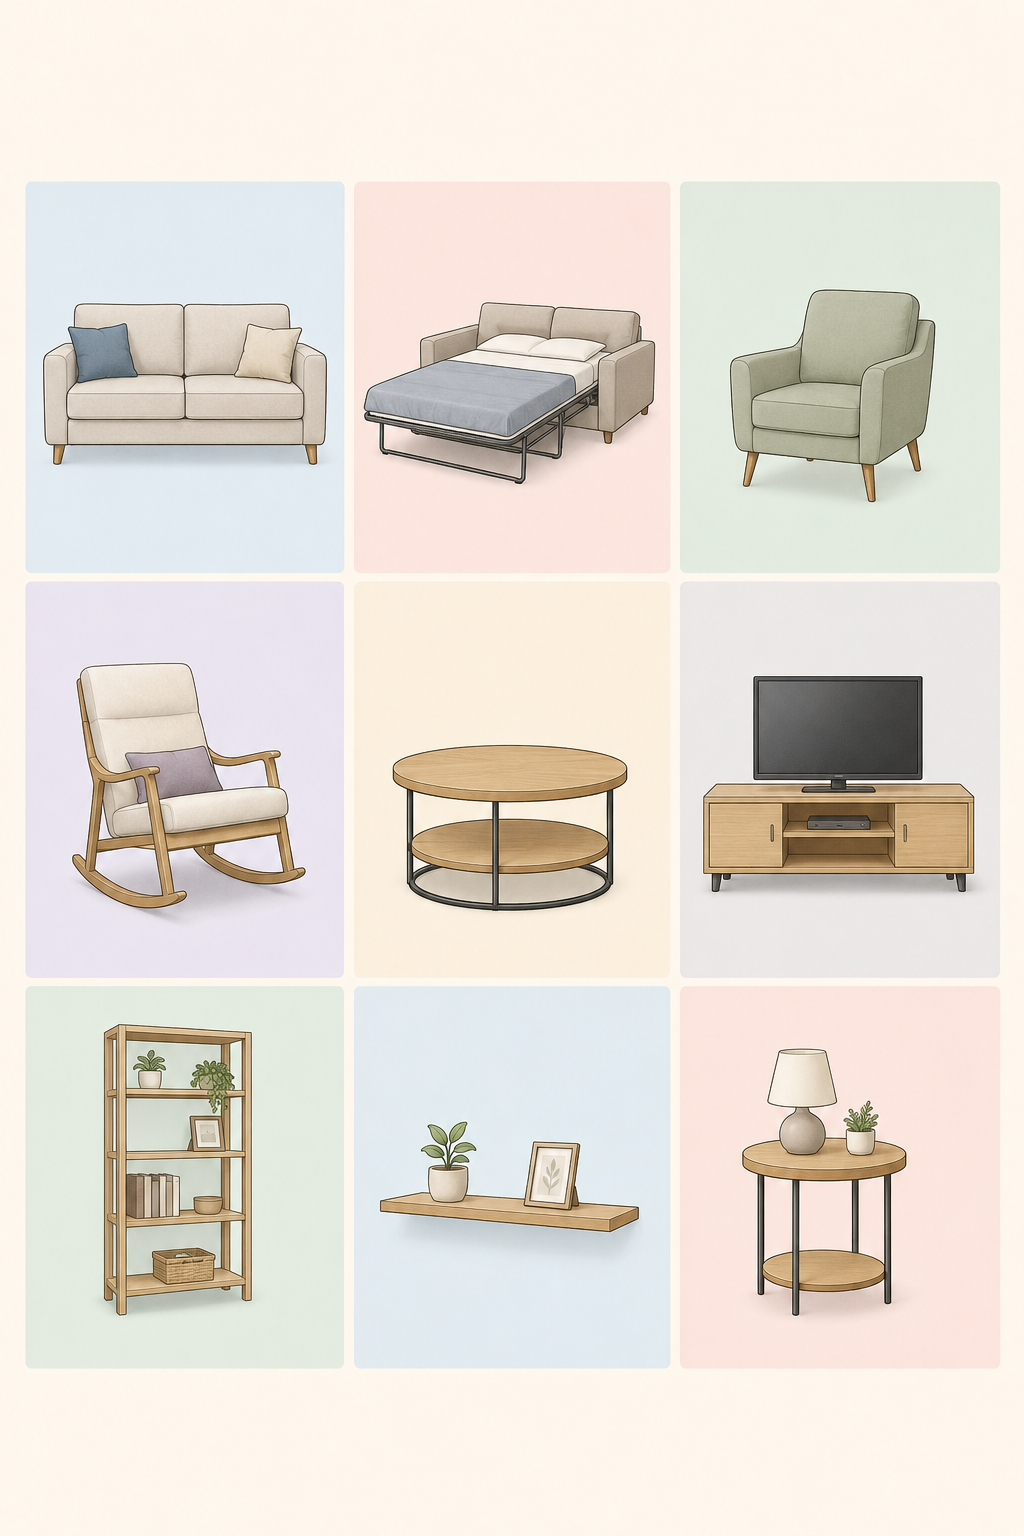
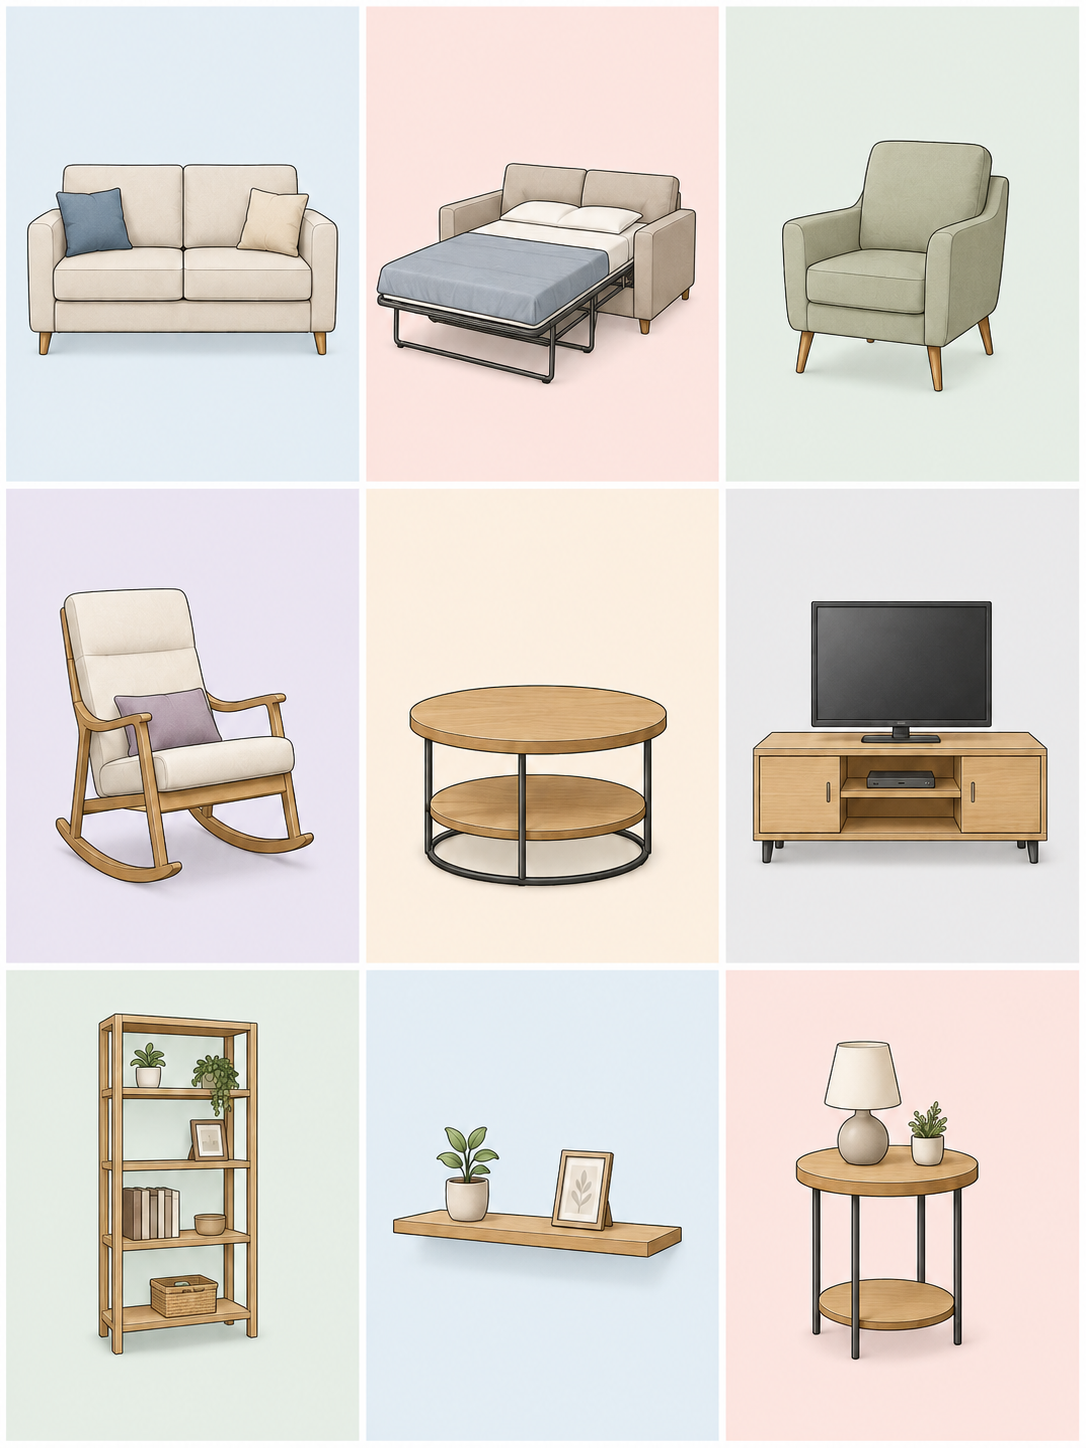
Aktualisiere Salon-Rasterbilder

diff --git a/bilder-daten.js b/bilder-daten.js
@@ -743,15 +743,15 @@ window.APP_FOLDERS = {
         title: "El salón – Bild 3",
         file: "salon3.png",
         hotspots: [
-          { wort: { es: "el sofá", de: "das Sofa", en: "the sofa", ru: "диван" }, clickX: 18.0, clickY: 24.5, labelX: 18.0, labelY: 10.8, areaW: 31.2, areaH: 25.5 },
-          { wort: { es: "el sofá cama", de: "das Schlafsofa", en: "the sofa bed", ru: "диван-кровать" }, clickX: 50.0, clickY: 24.5, labelX: 50.0, labelY: 10.8, areaW: 31.0, areaH: 25.5 },
-          { wort: { es: "el sillón", de: "der Sessel", en: "the armchair", ru: "кресло" }, clickX: 82.0, clickY: 24.5, labelX: 82.0, labelY: 10.8, areaW: 31.3, areaH: 25.5 },
-          { wort: { es: "la mecedora", de: "der Schaukelstuhl", en: "the rocking chair", ru: "кресло-качалка" }, clickX: 18.0, clickY: 50.7, labelX: 18.0, labelY: 42.5, areaW: 31.2, areaH: 25.8 },
-          { wort: { es: "la mesa de centro", de: "der Couchtisch", en: "the coffee table", ru: "журнальный столик" }, clickX: 50.0, clickY: 50.7, labelX: 50.0, labelY: 42.5, areaW: 31.0, areaH: 25.8 },
-          { wort: { es: "el mueble del televisor", de: "das TV-Möbel", en: "the TV unit", ru: "тумба под телевизор" }, clickX: 82.0, clickY: 50.7, labelX: 82.0, labelY: 42.5, areaW: 31.3, areaH: 25.8 },
-          { wort: { es: "la estantería", de: "das Regal", en: "the shelving unit / the bookcase", ru: "стеллаж / книжный шкаф" }, clickX: 18.0, clickY: 76.6, labelX: 18.0, labelY: 74.2, areaW: 31.2, areaH: 24.9 },
-          { wort: { es: "la balda", de: "das Regalbrett", en: "the shelf", ru: "полка" }, clickX: 50.0, clickY: 76.6, labelX: 50.0, labelY: 74.2, areaW: 31.0, areaH: 24.9 },
-          { wort: { es: "la mesa auxiliar", de: "der Beistelltisch", en: "the side table", ru: "приставной столик" }, clickX: 82.0, clickY: 76.6, labelX: 82.0, labelY: 74.2, areaW: 31.3, areaH: 24.9 }
+          { wort: { es: "el sofá", de: "das Sofa", en: "the sofa", ru: "диван" }, clickX: 16.8, clickY: 16.8, labelX: 18.0, labelY: 10.8, areaW: 32.5, areaH: 32.9 },
+          { wort: { es: "el sofá cama", de: "das Schlafsofa", en: "the sofa bed", ru: "диван-кровать" }, clickX: 49.9, clickY: 16.8, labelX: 50.0, labelY: 10.8, areaW: 32.5, areaH: 32.9 },
+          { wort: { es: "el sillón", de: "der Sessel", en: "the armchair", ru: "кресло" }, clickX: 83.1, clickY: 16.8, labelX: 82.0, labelY: 10.8, areaW: 32.5, areaH: 32.9 },
+          { wort: { es: "la mecedora", de: "der Schaukelstuhl", en: "the rocking chair", ru: "кресло-качалка" }, clickX: 16.8, clickY: 50.1, labelX: 18.0, labelY: 42.5, areaW: 32.5, areaH: 32.7 },
+          { wort: { es: "la mesa de centro", de: "der Couchtisch", en: "the coffee table", ru: "журнальный столик" }, clickX: 49.9, clickY: 50.1, labelX: 50.0, labelY: 42.5, areaW: 32.5, areaH: 32.7 },
+          { wort: { es: "el mueble del televisor", de: "das TV-Möbel", en: "the TV unit", ru: "тумба под телевизор" }, clickX: 83.1, clickY: 50.1, labelX: 82.0, labelY: 42.5, areaW: 32.5, areaH: 32.7 },
+          { wort: { es: "la estantería", de: "das Regal", en: "the shelving unit / the bookcase", ru: "стеллаж / книжный шкаф" }, clickX: 16.8, clickY: 83.2, labelX: 18.0, labelY: 74.2, areaW: 32.5, areaH: 32.5 },
+          { wort: { es: "la balda", de: "das Regalbrett", en: "the shelf", ru: "полка" }, clickX: 49.9, clickY: 83.2, labelX: 50.0, labelY: 74.2, areaW: 32.5, areaH: 32.5 },
+          { wort: { es: "la mesa auxiliar", de: "der Beistelltisch", en: "the side table", ru: "приставной столик" }, clickX: 83.1, clickY: 83.2, labelX: 82.0, labelY: 74.2, areaW: 32.5, areaH: 32.5 }
         ]
       },
       {
@@ -773,30 +773,30 @@ window.APP_FOLDERS = {
         title: "El salón – Bild 5",
         file: "salon5.png",
         hotspots: [
-          { wort: { es: "el cojín", de: "das Kissen", en: "the cushion", ru: "подушка" }, clickX: 16.8, clickY: 18.3, labelX: 16.8, labelY: 10.8, areaW: 30, areaH: 31 },
-          { wort: { es: "la manta", de: "die Decke", en: "the blanket", ru: "одеяло" }, clickX: 50.0, clickY: 18.3, labelX: 50.0, labelY: 10.8, areaW: 30, areaH: 31 },
-          { wort: { es: "el cuadro", de: "das Bild", en: "the picture", ru: "картина" }, clickX: 83.2, clickY: 18.3, labelX: 83.2, labelY: 10.8, areaW: 30, areaH: 31 },
-          { wort: { es: "el marco de fotos", de: "der Bilderrahmen", en: "the photo frame", ru: "рамка для фотографии" }, clickX: 16.8, clickY: 50.0, labelX: 16.8, labelY: 42.5, areaW: 30, areaH: 31 },
-          { wort: { es: "el libro", de: "das Buch", en: "the book", ru: "книга" }, clickX: 50.0, clickY: 50.0, labelX: 50.0, labelY: 42.5, areaW: 30, areaH: 31 },
-          { wort: { es: "el periódico", de: "die Zeitung", en: "the newspaper", ru: "газета" }, clickX: 83.2, clickY: 50.0, labelX: 83.2, labelY: 42.5, areaW: 30, areaH: 31 },
-          { wort: { es: "la revista", de: "die Zeitschrift", en: "the magazine", ru: "журнал" }, clickX: 16.8, clickY: 81.7, labelX: 16.8, labelY: 74.2, areaW: 30, areaH: 31 },
-          { wort: { es: "la planta", de: "die Pflanze", en: "the plant", ru: "растение" }, clickX: 50.0, clickY: 81.7, labelX: 50.0, labelY: 74.2, areaW: 30, areaH: 31 },
-          { wort: { es: "el jarrón", de: "die Vase", en: "the vase", ru: "ваза" }, clickX: 83.2, clickY: 81.7, labelX: 83.2, labelY: 74.2, areaW: 30, areaH: 31 }
+          { wort: { es: "el cojín", de: "das Kissen", en: "the cushion", ru: "подушка" }, clickX: 16.8, clickY: 16.7, labelX: 16.8, labelY: 10.8, areaW: 32.6, areaH: 32.7 },
+          { wort: { es: "la manta", de: "die Decke", en: "the blanket", ru: "одеяло" }, clickX: 49.9, clickY: 16.7, labelX: 50.0, labelY: 10.8, areaW: 32.5, areaH: 32.7 },
+          { wort: { es: "el cuadro", de: "das Bild", en: "the picture", ru: "картина" }, clickX: 83.1, clickY: 16.7, labelX: 83.2, labelY: 10.8, areaW: 32.7, areaH: 32.7 },
+          { wort: { es: "el marco de fotos", de: "der Bilderrahmen", en: "the photo frame", ru: "рамка для фотографии" }, clickX: 16.8, clickY: 50.0, labelX: 16.8, labelY: 42.5, areaW: 32.6, areaH: 32.9 },
+          { wort: { es: "el libro", de: "das Buch", en: "the book", ru: "книга" }, clickX: 49.9, clickY: 50.0, labelX: 50.0, labelY: 42.5, areaW: 32.5, areaH: 32.9 },
+          { wort: { es: "el periódico", de: "die Zeitung", en: "the newspaper", ru: "газета" }, clickX: 83.1, clickY: 50.0, labelX: 83.2, labelY: 42.5, areaW: 32.7, areaH: 32.9 },
+          { wort: { es: "la revista", de: "die Zeitschrift", en: "the magazine", ru: "журнал" }, clickX: 16.8, clickY: 83.2, labelX: 16.8, labelY: 74.2, areaW: 32.6, areaH: 32.6 },
+          { wort: { es: "la planta", de: "die Pflanze", en: "the plant", ru: "растение" }, clickX: 49.9, clickY: 83.2, labelX: 50.0, labelY: 74.2, areaW: 32.5, areaH: 32.6 },
+          { wort: { es: "el jarrón", de: "die Vase", en: "the vase", ru: "ваза" }, clickX: 83.1, clickY: 83.2, labelX: 83.2, labelY: 74.2, areaW: 32.7, areaH: 32.6 }
         ]
       },
       {
         title: "El salón – Bild 6",
         file: "salon6.png",
         hotspots: [
-          { wort: { es: "el altavoz", de: "der Lautsprecher", en: "the speaker", ru: "колонка / динамик" }, clickX: 16.8, clickY: 18.3, labelX: 16.8, labelY: 10.8, areaW: 30, areaH: 31 },
-          { wort: { es: "el proyector", de: "der Projektor", en: "the projector", ru: "проектор" }, clickX: 50.0, clickY: 18.3, labelX: 50.0, labelY: 10.8, areaW: 30, areaH: 31 },
-          { wort: { es: "el mando a distancia", de: "die Fernbedienung", en: "the remote control", ru: "пульт дистанционного управления" }, clickX: 83.2, clickY: 18.3, labelX: 83.2, labelY: 10.8, areaW: 30, areaH: 31 },
-          { wort: { es: "los auriculares", de: "die Kopfhörer", en: "the headphones", ru: "наушники" }, clickX: 16.8, clickY: 50.0, labelX: 16.8, labelY: 42.5, areaW: 30, areaH: 31 },
-          { wort: { es: "el equipo de música", de: "die Musikanlage", en: "the stereo system", ru: "музыкальная Anlage / стереосистема" }, clickX: 50.0, clickY: 50.0, labelX: 50.0, labelY: 42.5, areaW: 30, areaH: 31 },
-          { wort: { es: "el televisor", de: "der Fernseher", en: "the television / the TV", ru: "телевизор" }, clickX: 83.2, clickY: 50.0, labelX: 83.2, labelY: 42.5, areaW: 30, areaH: 31 },
-          { wort: { es: "el aire acondicionado", de: "die Klimaanlage", en: "the air conditioner", ru: "кондиционер" }, clickX: 16.8, clickY: 81.7, labelX: 16.8, labelY: 74.2, areaW: 30, areaH: 31 },
-          { wort: { es: "el ventilador de techo", de: "der Deckenventilator", en: "the ceiling fan", ru: "потолочный вентилятор" }, clickX: 50.0, clickY: 81.7, labelX: 50.0, labelY: 74.2, areaW: 30, areaH: 31 },
-          { wort: { es: "la consola", de: "die Spielkonsole", en: "the game console", ru: "игровая приставка" }, clickX: 83.2, clickY: 81.7, labelX: 83.2, labelY: 74.2, areaW: 30, areaH: 31 }
+          { wort: { es: "el altavoz", de: "der Lautsprecher", en: "the speaker", ru: "колонка / динамик" }, clickX: 16.8, clickY: 17.8, labelX: 16.8, labelY: 10.8, areaW: 32.4, areaH: 34.7 },
+          { wort: { es: "el proyector", de: "der Projektor", en: "the projector", ru: "проектор" }, clickX: 49.9, clickY: 17.8, labelX: 50.0, labelY: 10.8, areaW: 32.5, areaH: 34.7 },
+          { wort: { es: "el mando a distancia", de: "die Fernbedienung", en: "the remote control", ru: "пульт дистанционного управления" }, clickX: 83.0, clickY: 17.8, labelX: 83.2, labelY: 10.8, areaW: 32.6, areaH: 34.7 },
+          { wort: { es: "los auriculares", de: "die Kopfhörer", en: "the headphones", ru: "наушники" }, clickX: 16.8, clickY: 51.4, labelX: 16.8, labelY: 42.5, areaW: 32.4, areaH: 31.6 },
+          { wort: { es: "el equipo de música", de: "die Musikanlage", en: "the stereo system", ru: "музыкальная Anlage / стереосистема" }, clickX: 49.9, clickY: 51.4, labelX: 50.0, labelY: 42.5, areaW: 32.5, areaH: 31.6 },
+          { wort: { es: "el televisor", de: "der Fernseher", en: "the television / the TV", ru: "телевизор" }, clickX: 83.0, clickY: 51.4, labelX: 83.2, labelY: 42.5, areaW: 32.6, areaH: 31.6 },
+          { wort: { es: "el aire acondicionado", de: "die Klimaanlage", en: "the air conditioner", ru: "кондиционер" }, clickX: 16.8, clickY: 83.6, labelX: 16.8, labelY: 74.2, areaW: 32.4, areaH: 31.8 },
+          { wort: { es: "el ventilador de techo", de: "der Deckenventilator", en: "the ceiling fan", ru: "потолочный вентилятор" }, clickX: 49.9, clickY: 83.6, labelX: 50.0, labelY: 74.2, areaW: 32.5, areaH: 31.8 },
+          { wort: { es: "la consola", de: "die Spielkonsole", en: "the game console", ru: "игровая приставка" }, clickX: 83.0, clickY: 83.6, labelX: 83.2, labelY: 74.2, areaW: 32.6, areaH: 31.8 }
         ]
       },
       {
